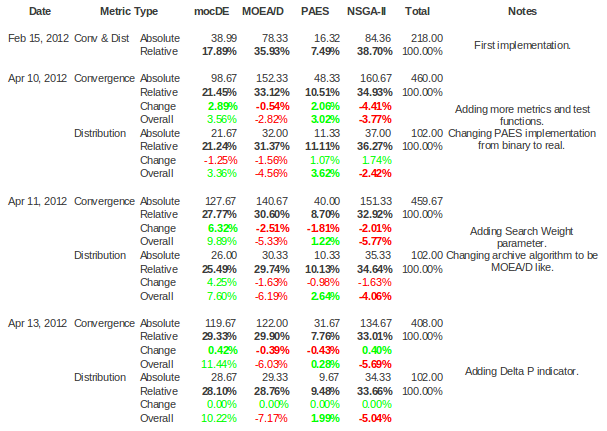
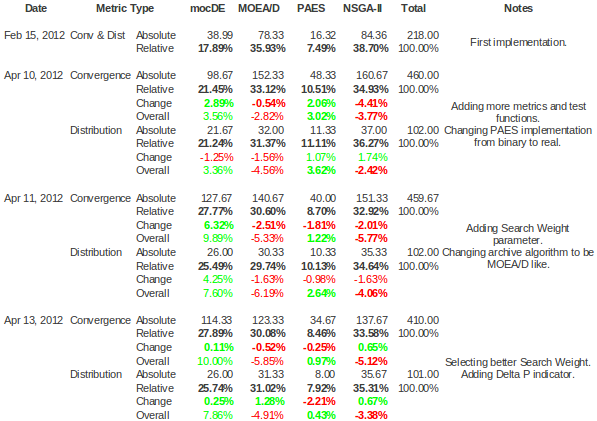
Fixes selection scripts.

diff --git a/src/MetricsCalc.py b/src/MetricsCalc.py
@@ -29,13 +29,13 @@ class MetricsCalc():
         self.nSolutions = len(self.solutionNames)
         metrics = Metrics(optimalPareto, solutionData)
         
-        unaryMetrics = ['Error ratio', 'Generational distance', 'Inverted generational distance', 'Delta P', \
+        unaryMetrics = ['Generational distance', 'Inverted generational distance', 'Delta P', \
                         'Spacing', "Hypervolume"]
-        unaryMetricOptType = [MetricsCalc.__MIN__, MetricsCalc.__MIN__, MetricsCalc.__MIN__, MetricsCalc.__MIN__, \
+        unaryMetricOptType = [MetricsCalc.__MIN__, MetricsCalc.__MIN__, MetricsCalc.__MIN__, \
                               MetricsCalc.__MIN__, MetricsCalc.__MAX__]
-        unaryMetricType = [MetricsCalc.__CONV__, MetricsCalc.__CONV__, MetricsCalc.__CONV__, MetricsCalc.__CONV__, \
+        unaryMetricType = [MetricsCalc.__CONV__, MetricsCalc.__CONV__, MetricsCalc.__CONV__, \
                            MetricsCalc.__DIST__, [MetricsCalc.__CONV__, MetricsCalc.__DIST__]]
-        unaryMetricFunction = [metrics.errorRatio, metrics.generationalDistance, metrics.invertedGenerationalDistance, metrics.deltaP, \
+        unaryMetricFunction = [metrics.generationalDistance, metrics.invertedGenerationalDistance, metrics.deltaP, \
                                metrics.spacing, metrics.hypervolume]
         self.nUnaryMetrics = len(unaryMetrics)
         binaryMetrics = ['Coverage', 'Additive epsilon', 'Multiplicative epsilon']

diff --git a/src/select.py b/src/select.py
@@ -29,7 +29,7 @@ analyzer.setPareto(pareto)
 functions = []
 for functionName in analyzer.getFunctionNames():
     if len(args.functions) == 0 or True in [analyzer.functionMatches(fn, functionName) for fn in args.functions]:
-        functions.append(functionName.lower())
+        functions.append(functionName.upper())
 functions.sort()
 
 resultDir = args.name
@@ -37,7 +37,7 @@ if resultDir[-1] == "/":
     resultDir = resultDir[:-1];
 if os.path.exists(resultDir):
     newResultDir = "%s-%s" % (resultDir, time.strftime("%Y%m%d-%H%M%S"))
-    print "Backing up previous report at '%s' to '%s'" % (resultDir, newResultDir)
+    print "Backing up previous selection at '%s' to '%s'" % (resultDir, newResultDir)
     shutil.move(resultDir, newResultDir)
 
 os.mkdir(resultDir)
@@ -59,10 +59,9 @@ for functionName in functions:
         genPos = max(-1, fnId.rfind("."), fnId.rfind("-"), fnId.rfind("_"))
         if genPos >= 0:
             fnId = fnId[:genPos]
-        if fnId == functionName:
+        if fnId == functionName.lower():
 #            print "        Copying file '%s' to '%s'" % (filename, resultDir)
             filesCopied += 1
             shutil.copy(filename, resultDir)
             
     print "    Copied %d files!" % filesCopied
-    
